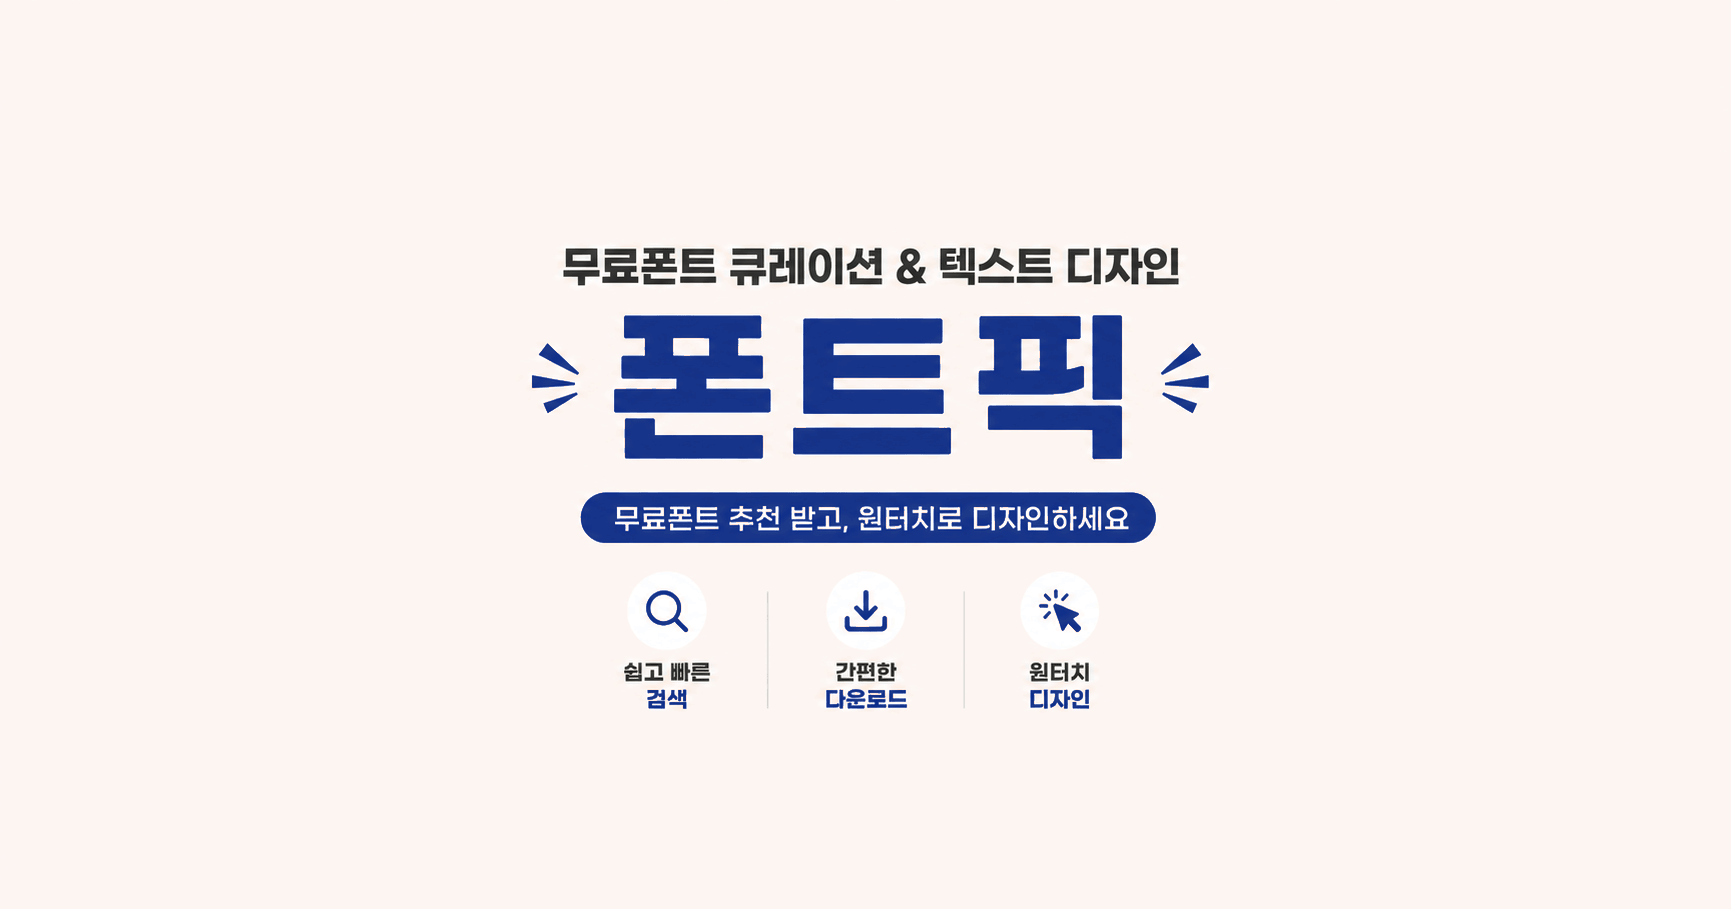
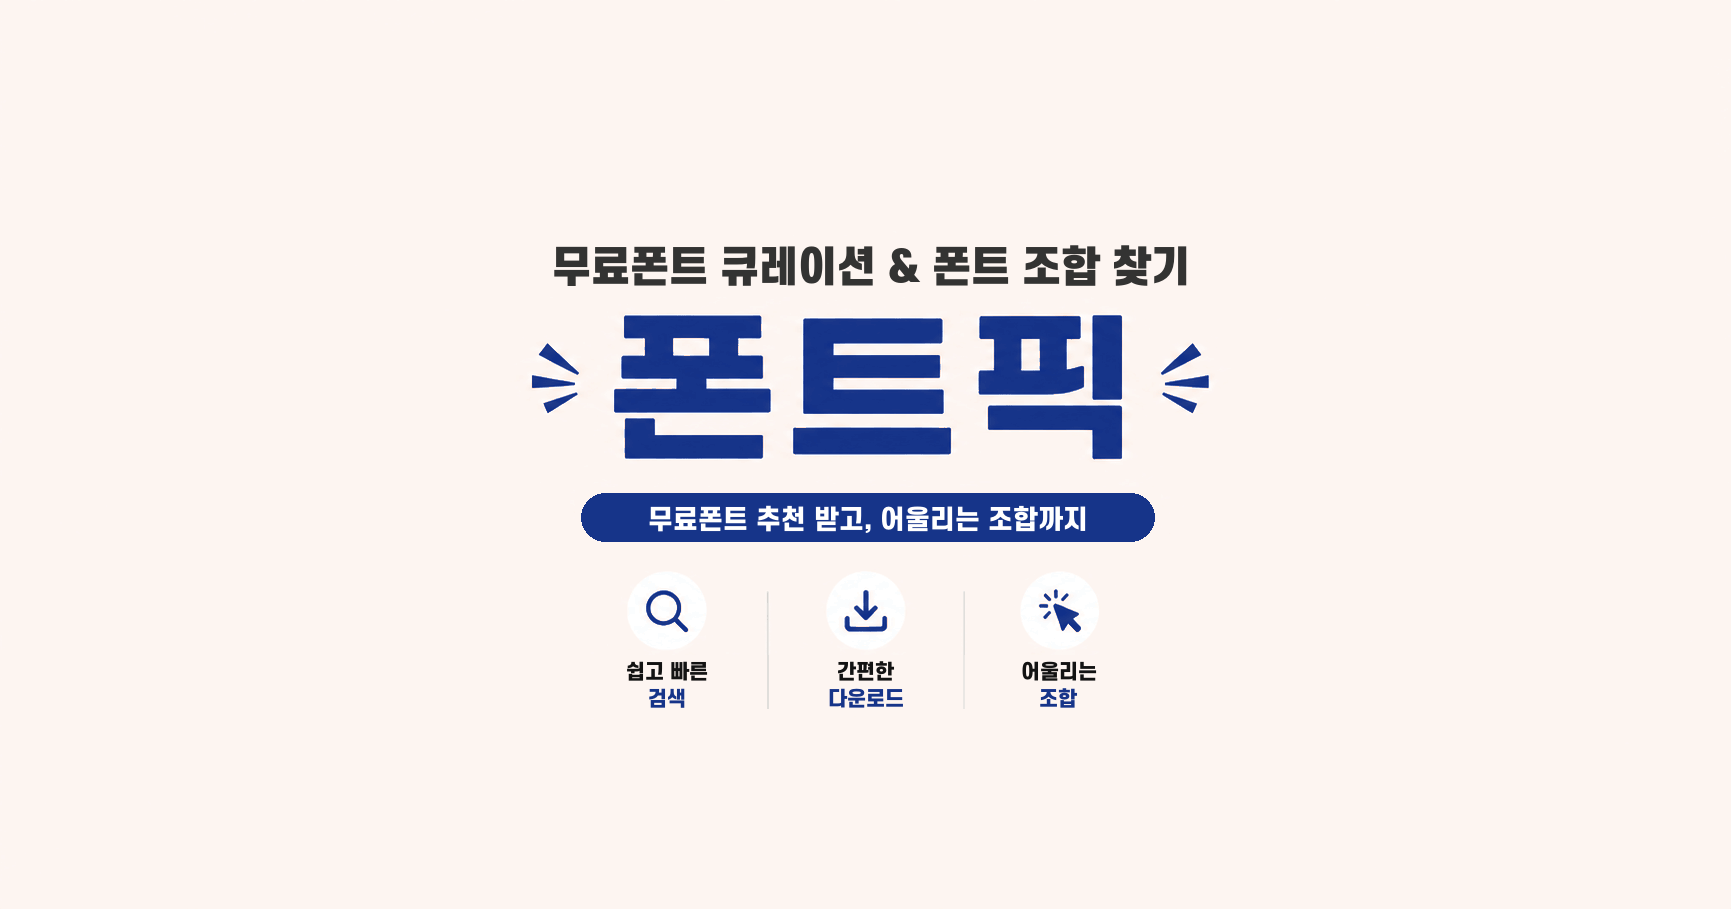
대표 문구를 '폰트 조합 찾기'로 · 조합찾기에 소개 링크
사이트의 얼굴이 아직 "무료폰트 큐레이션 & 텍스트 디자인"이었다. 그 사이
조합 찾기가 독립 페이지로 올라왔고 상세페이지 221장이 그리로 연결됐다.

- 메인페이지 메타 8곳(title·description·og 3·twitter 2·JSON-LD)을 바꿨다.
  keywords 에서는 '텍스트 디자인'을 빼지 않았다 — 그 기능은 살아 있다.
  '폰트 조합·폰트 페어링·제목 본문 폰트'를 더했다.
- og 이미지의 글자 세 군데를 다시 썼다. 배경이 단색이라 글자 자리만 칠하고
  다시 그렸다. 로고와 아이콘, 구분선은 그대로다.
  서체는 원본과 완전히 같지 않다. 안 바뀌는 앞부분('무료폰트 큐레이션 &')으로
  후보 아홉 벌을 겹쳐 재 보니 에스코어드림 900이 가장 가까웠다(IoU 0.771).
  그래서 한 줄을 통째로 다시 썼다 — 앞부분만 원본으로 두면 한 줄 안에서
  새 글자와 옛 글자가 어긋나 보인다. 아이콘 라벨도 세 칸을 다 다시 썼다.
  파일명은 그대로 둔다. 바꾸면 og:image 경로를 다 고쳐야 하고 카카오·
  페이스북 캐시도 새로 잡아야 한다.
- 조합찾기 사용팁 아래에 폰트픽 소개로 가는 줄을 걸었다. 소개 글을 복사해
  오면 같은 글이 두 주소에 앉아 중복 콘텐츠가 되므로 링크만 건다.
  오른쪽 칸이 캔버스 높이에 묶여 있어 계산으로 확인했다 — 남는 자리 15px.

상세페이지는 손대지 않았다. 이미 "어울리는 폰트 조합까지"이고 og 이미지에도
'디자인' 글자가 없다.

diff --git a/static/index.html b/static/index.html
@@ -12,7 +12,7 @@
   </script>
   <meta charset="UTF-8">
   <meta name="viewport" content="width=device-width, initial-scale=1.0">
-  <title>폰트픽-무료폰트 큐레이션 및 텍스트 디자인</title>
+  <title>폰트픽-무료폰트 큐레이션 및 폰트 조합 찾기</title>
   <link rel="stylesheet" href="/header.css">
 
   <!-- 구글 태그(gtag.js)는 app/header.py가 헤더 마커 자리에 함께 넣는다.
@@ -20,8 +20,8 @@
        양쪽에 두면 조회수가 두 번 잡힌다. -->
 
   <!-- ── 기본 SEO ── -->
-  <meta name="description" content="전문가 추천 무료폰트 다운로드 및 텍스트 디자인">
-  <meta name="keywords" content="무료폰트, 한글폰트, 상업용폰트, 무료한글폰트, 폰트추천, 디자인폰트, 카페폰트, 유튜브폰트, 브랜드폰트, 캘리그라피, 텍스트 디자인, 글자 디자인, 글씨 꾸미기, 타이포그래피, 썸네일 글씨, 투명배경 글자 PNG, 텍스트 효과">
+  <meta name="description" content="전문가 추천 무료폰트를 다운로드하고, 제목·본문에 어울리는 폰트 조합까지 한 번에 찾으세요.">
+  <meta name="keywords" content="무료폰트, 한글폰트, 상업용폰트, 무료한글폰트, 폰트추천, 디자인폰트, 카페폰트, 유튜브폰트, 브랜드폰트, 캘리그라피, 폰트 조합, 폰트 페어링, 제목 본문 폰트, 텍스트 디자인, 글자 디자인, 글씨 꾸미기, 타이포그래피, 썸네일 글씨, 투명배경 글자 PNG, 텍스트 효과">
   <meta name="author" content="(주)와이즈폰트">
   <meta name="robots" content="index, follow, max-image-preview:large">
   <!-- 검색엔진별 크롤링 허용 -->
@@ -37,19 +37,19 @@
   <!-- ── Open Graph (카카오톡, 페이스북) ── -->
   <meta property="og:type" content="website">
   <meta property="og:site_name" content="폰트픽">
-  <meta property="og:title" content="폰트픽-무료폰트 큐레이션 및 텍스트 디자인">
-  <meta property="og:description" content="전문가 추천 무료폰트 다운로드 및 텍스트 디자인">
+  <meta property="og:title" content="폰트픽-무료폰트 큐레이션 및 폰트 조합 찾기">
+  <meta property="og:description" content="전문가 추천 무료폰트를 다운로드하고, 제목·본문에 어울리는 폰트 조합까지 한 번에 찾으세요.">
   <meta property="og:url" content="https://freefontpick.co.kr/">
   <meta property="og:image" content="https://freefontpick.co.kr/og-image-v3.png">
   <meta property="og:image:width" content="1200">
   <meta property="og:image:height" content="630">
-  <meta property="og:image:alt" content="폰트픽-무료폰트 큐레이션 및 텍스트 디자인">
+  <meta property="og:image:alt" content="폰트픽-무료폰트 큐레이션 및 폰트 조합 찾기">
   <meta property="og:locale" content="ko_KR">
 
   <!-- ── Twitter Card ── -->
   <meta name="twitter:card" content="summary_large_image">
-  <meta name="twitter:title" content="폰트픽-무료폰트 큐레이션 및 텍스트 디자인">
-  <meta name="twitter:description" content="전문가 추천 무료폰트 다운로드 및 텍스트 디자인">
+  <meta name="twitter:title" content="폰트픽-무료폰트 큐레이션 및 폰트 조합 찾기">
+  <meta name="twitter:description" content="전문가 추천 무료폰트를 다운로드하고, 제목·본문에 어울리는 폰트 조합까지 한 번에 찾으세요.">
   <meta name="twitter:image" content="https://freefontpick.co.kr/og-image-v3.png">
 
   <!-- ── 구조화 데이터 (JSON-LD) ── -->
@@ -62,7 +62,7 @@
         "@id": "https://freefontpick.co.kr/#website",
         "url": "https://freefontpick.co.kr/",
         "name": "폰트픽",
-        "description": "전문가 추천 무료폰트 다운로드 및 텍스트 디자인",
+        "description": "전문가 추천 무료폰트를 다운로드하고, 제목·본문에 어울리는 폰트 조합까지 한 번에 찾으세요.",
         "inLanguage": "ko-KR",
         "publisher": { "@id": "https://freefontpick.co.kr/#organization" },
         "potentialAction": {

diff --git a/static/font-pair.html b/static/font-pair.html
@@ -259,6 +259,13 @@
   .fp-about li::before{content:'';position:absolute;left:0;top:8px;width:4px;height:4px;
                border-radius:50%;background:var(--text-muted);opacity:.6}
   .fp-about b{font-weight:700;color:var(--text-primary)}
+  /* 다음 읽을거리로 가는 길. 소개 글을 복사해 오지 않고 링크만 건다 —
+     같은 글이 두 주소에 앉으면 중복 콘텐츠가 된다. */
+  .fp-more{margin-top:10px;padding-top:9px;border-top:1px solid var(--border);
+           font-size:12px;line-height:1.6;color:var(--text-muted);white-space:nowrap;
+           overflow:hidden;text-overflow:ellipsis}
+  .fp-more a{color:var(--accent);font-weight:700;text-decoration:none}
+  .fp-more a:hover{text-decoration:underline}
   .fp-about p{font-size:12.5px;color:var(--text-secondary);line-height:1.8;
               word-break:keep-all}
 </style>

diff --git a/app/routers/design.py b/app/routers/design.py
@@ -785,6 +785,9 @@ def _pair_ssr_block(db: Session) -> str:
         "<li><b>문구</b>를 눌러 직접 고쳐 쓸 수 있습니다.</li>"
         "<li><b>폰트 이름</b>을 클릭하면 다운로드 및 라이선스를 확인할 수 있습니다.</li>"
         "</ul>"
+        # 소개 글을 복사해 오면 같은 글이 두 주소에 앉아 중복 콘텐츠가 된다.
+        # 링크만 걸어 크롤러에게 나가는 길을 주고, 사람에게는 다음 읽을거리를 준다.
+        '<p class="fp-more">폰트 고르는 법 → <a href="/about.html">폰트픽 소개</a></p>'
         "</section>"
     )
 
